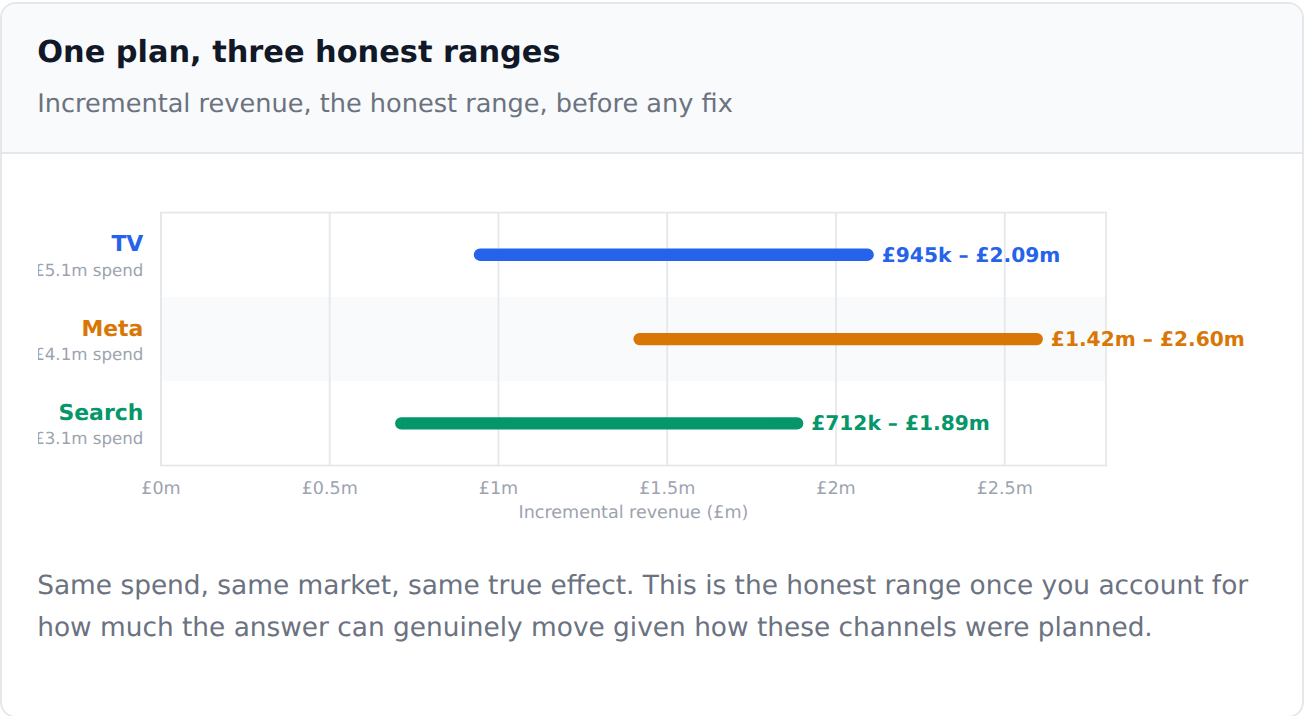
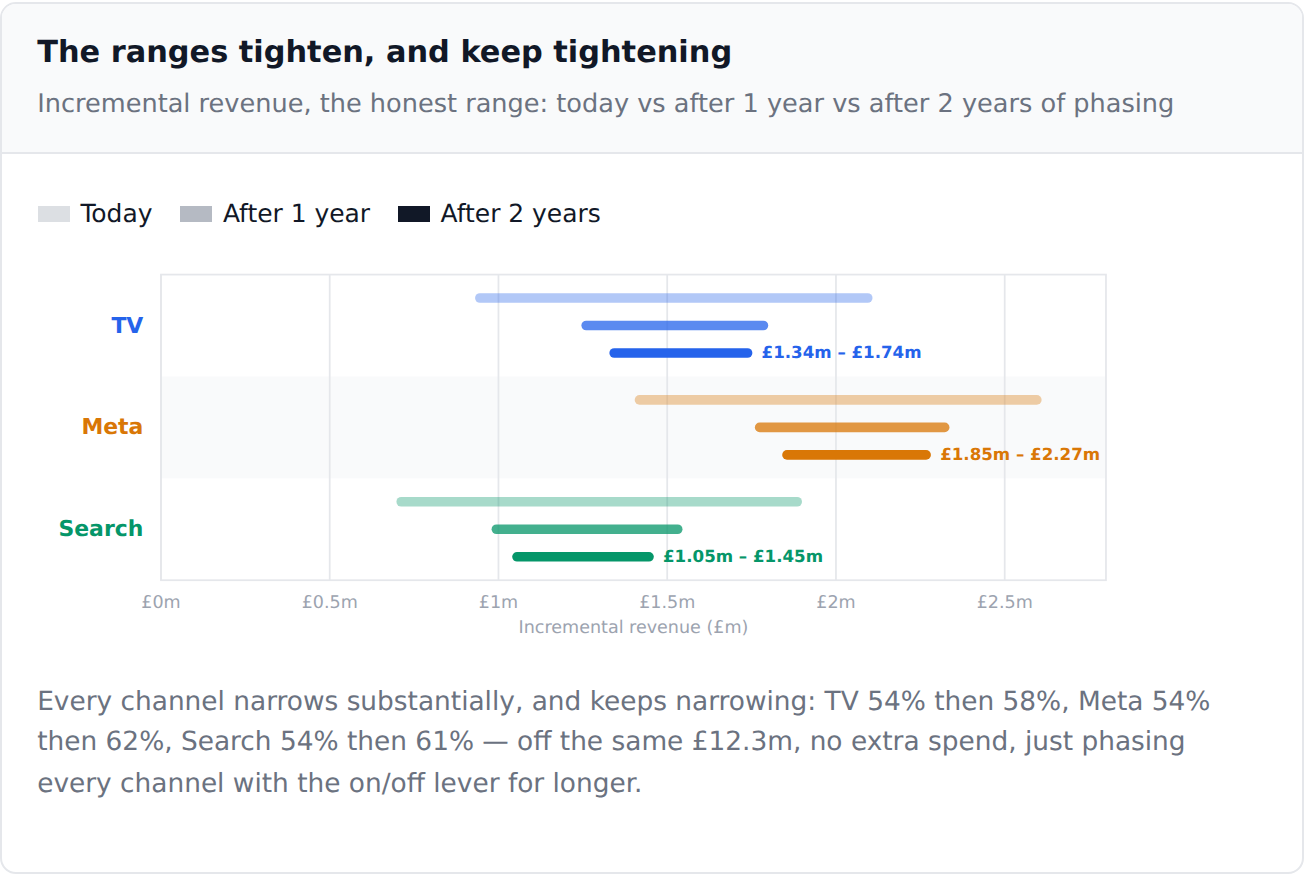
README: swap hero chart for the before/after impact view

diff --git a/README.md b/README.md
@@ -10,7 +10,7 @@ For most brands, no. TV, Meta, and Search budgets move together because the same
 
 This package quantifies that problem and recommends a fix.
 
-![One plan, three honest ranges — TV could be earning anywhere from £945k to £2.09m off the same spend, more than double](assets/readme-honest-ranges.png)
+![The ranges tighten, and keep tightening — incremental revenue honest range today vs after 1 year vs after 2 years of budget phasing, every channel narrowing 54-62% off the same £12.3m plan, no extra spend](assets/readme-honest-ranges.png)
 
 ---
 
